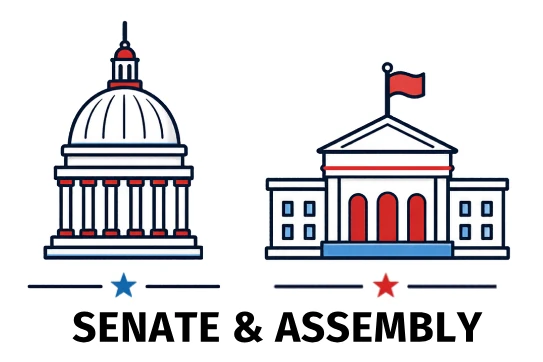
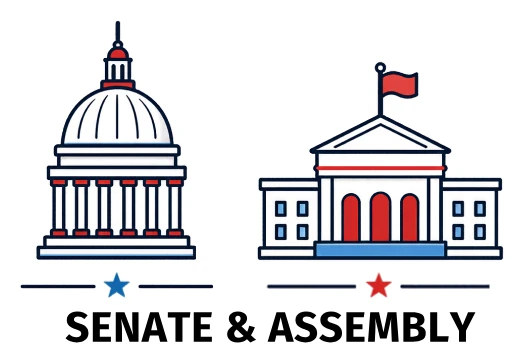
Typography and spacing tweaks, larger ballot box, tidier phone header and side buttons
Claude-Session: https://claude.ai/code/session_012y6bUWdRVcp4W4xufh5jhK

diff --git a/election-dashboard/assets/css/election-dashboard.css b/election-dashboard/assets/css/election-dashboard.css
@@ -55,7 +55,7 @@
   margin: 0; white-space: nowrap;
 }
 .ed-title-year { color: var(--ed-red); }
-.ed-title-icon { height: 42px; width: auto; display: block; }
+.ed-title-icon { height: 58px; width: auto; display: block; }
 .ed-top-links { display: flex; gap: 8px; align-items: center; flex-wrap: wrap; }
 .ed-btn {
   display: inline-flex; align-items: center; height: 40px; padding: 0 14px;
@@ -87,9 +87,9 @@
 
 /* Map column */
 .ed-map-col { display: flex; flex-direction: column; min-height: 0; min-width: 0; }
-.ed-map-head { margin-bottom: 10px; }
-.ed-map-title { font-family: var(--ed-serif); font-size: 16px; font-weight: 700; color: var(--ed-navy); }
-.ed-map-sub { display: block; margin-top: 4px; font-size: 15px; font-weight: 700; line-height: 1.3; color: var(--ed-red); }
+.ed-map-head { margin-bottom: 8px; }
+.ed-map-title { font-family: var(--ed-serif); font-size: 17px; font-weight: 900; line-height: 1.2; color: var(--ed-navy); }
+.ed-map-sub { display: block; margin-top: 1px; font-size: 15px; font-weight: 700; line-height: 1.25; color: var(--ed-red); }
 .ed-map-wrap { position: relative; flex: 1 1 auto; min-height: 0; max-height: 100%; align-self: center; width: 100%; }  /* aspect-ratio is set inline from includes/map.json */
 .ed-map-art { display: block; width: 100%; height: 100%; object-fit: contain; user-select: none; -webkit-user-drag: none; }
 .ed-map-svg { position: absolute; inset: 0; width: 100%; height: 100%; overflow: visible; }
@@ -205,8 +205,8 @@
   border: 1px solid var(--ed-rule); background: #fff; box-shadow: var(--ed-shadow); text-decoration: none;
   transition: border-color .2s, transform .25s var(--ed-ease), box-shadow .25s var(--ed-ease);
 }
-.ed-nav-btn picture { display: block; width: 100%; }
-.ed-nav-btn img { width: 100%; height: auto; display: block; transition: transform .3s var(--ed-ease); }
+.ed-nav-btn picture { display: block; width: 100%; aspect-ratio: 3 / 2; }   /* icons scale to fill this box */
+.ed-nav-btn img { width: 100%; height: 100%; object-fit: contain; display: block; transition: transform .3s var(--ed-ease); }
 .ed-nav-btn span {
   font-size: 15px; font-weight: 700; letter-spacing: .06em; text-transform: uppercase; color: var(--ed-navy);
   text-align: center; position: relative;
@@ -225,11 +225,11 @@
 
 /* ---------- Key election dates ---------- */
 .ed-dates {
-  flex: none; display: flex; align-items: center; gap: 36px;
+  flex: none; display: flex; align-items: center; gap: 18px;
   min-height: 150px; padding: 18px 28px;
   background: var(--ed-tint-2); border-top: 1px solid var(--ed-rule); color: var(--ed-navy);
 }
-.ed-dates-title { flex: none; width: 120px; font-size: 19px; font-weight: 700; line-height: 1.15; }
+.ed-dates-title { flex: none; width: 112px; font-size: 19px; font-weight: 700; line-height: 1.15; align-self: center; }
 .ed-timeline {
   flex: 1 1 auto; min-width: 0; list-style: none; margin: 0; padding: 0;
   display: grid; grid-auto-flow: column; grid-auto-columns: 1fr; gap: 8px;
@@ -263,7 +263,12 @@
 }
 @container ed-root (max-width: 900px) {
   .ed-dashboard { min-height: 0; }
-  .ed-top { padding: 12px 16px; }
+  .ed-top { padding: 12px 16px 14px; gap: 12px; }
+  .ed-title { width: 100%; justify-content: center; }
+  .ed-title-text { font-size: 26px; }
+  .ed-title-icon { height: 44px; }
+  .ed-top-links { width: 100%; display: grid; grid-template-columns: 1fr 1fr; gap: 8px; }
+  .ed-btn { height: auto; min-height: 44px; padding: 6px 8px; justify-content: center; text-align: center; font-size: 13px; white-space: normal; line-height: 1.15; }
   .ed-main { grid-template-columns: 1fr; gap: 16px; padding: 16px; }
   .ed-map-col { align-items: center; }
   .ed-map-head { align-self: stretch; text-align: center; }
@@ -275,7 +280,8 @@
   .ed-ballot-scroll { max-height: calc(80vh - 90px); }
   .ed-ballot-title { font-size: 20px; }
   .ed-open-page { font-size: 12px; padding: 8px 10px; }
-  .ed-side-nav { flex-direction: row; }
+  .ed-side-nav { flex-direction: row; gap: 6px; margin: 0 -6px; }   /* pull out to the edges so the icons get more room */
+  .ed-nav-btn { padding: 4px 2px; flex: 1 1 0; }
   .ed-nav-btn:hover, .ed-nav-btn:focus-visible { transform: translateY(-4px); }
   .ed-dates { flex-direction: column; align-items: stretch; gap: 14px; padding: 18px 16px; }
   .ed-dates-title { width: auto; padding-top: 0; }

diff --git a/demo/index.html b/demo/index.html
@@ -4,7 +4,7 @@
 <meta charset="utf-8">
 <meta name="viewport" content="width=device-width, initial-scale=1">
 <title>2026 General Election Dashboard - demo</title>
-<link rel="preconnect" href="https://fonts.googleapis.com"><link href="https://fonts.googleapis.com/css2?family=Fira+Sans:wght@400;700&family=Merriweather:wght@700&display=swap" rel="stylesheet">
+<link rel="preconnect" href="https://fonts.googleapis.com"><link href="https://fonts.googleapis.com/css2?family=Fira+Sans:wght@400;700&family=Merriweather:wght@700;900&display=swap" rel="stylesheet">
 <link rel="stylesheet" href="../election-dashboard/assets/css/election-dashboard.css">
 <style>body{margin:0;background:#fff;}</style>
 </head>

diff --git a/tools/build-demo.py b/tools/build-demo.py
@@ -66,7 +66,7 @@ tpl = re.sub(r"<\?php esc_(?:html|attr)_e\( '([^']+)', 'election-dashboard' \); 
 tpl = tpl.replace('<p class="ed-sr" aria-live="polite"></p>', '<p class="ed-sr" aria-live="polite"></p>\n\t' + '\n\t'.join(templates))
 assert '<?php' not in tpl, 'unreplaced PHP left in template'
 
-FONTS = '<link rel="preconnect" href="https://fonts.googleapis.com"><link href="https://fonts.googleapis.com/css2?family=Fira+Sans:wght@400;700&family=Merriweather:wght@700&display=swap" rel="stylesheet">'
+FONTS = '<link rel="preconnect" href="https://fonts.googleapis.com"><link href="https://fonts.googleapis.com/css2?family=Fira+Sans:wght@400;700&family=Merriweather:wght@700;900&display=swap" rel="stylesheet">'
 css = open(os.path.join(P, 'assets/css/election-dashboard.css')).read()
 js = open(os.path.join(P, 'assets/js/election-dashboard.js')).read()
 if INLINE:

diff --git a/election-dashboard/election-dashboard.php b/election-dashboard/election-dashboard.php
@@ -27,7 +27,7 @@ function ed_get_counties() {
  */
 function ed_register_assets() {
 	// Fira Sans + Merriweather, as in the design. Remove this line if the theme already loads them.
-	wp_register_style( 'election-dashboard-fonts', 'https://fonts.googleapis.com/css2?family=Fira+Sans:wght@400;700&family=Merriweather:wght@700&display=swap', array(), null );
+	wp_register_style( 'election-dashboard-fonts', 'https://fonts.googleapis.com/css2?family=Fira+Sans:wght@400;700&family=Merriweather:wght@700;900&display=swap', array(), null );
 	wp_register_style( 'election-dashboard', ED_URL . 'assets/css/election-dashboard.css', array( 'election-dashboard-fonts' ), ED_VERSION );
 	wp_register_script( 'election-dashboard', ED_URL . 'assets/js/election-dashboard.js', array(), ED_VERSION, true );
 }
